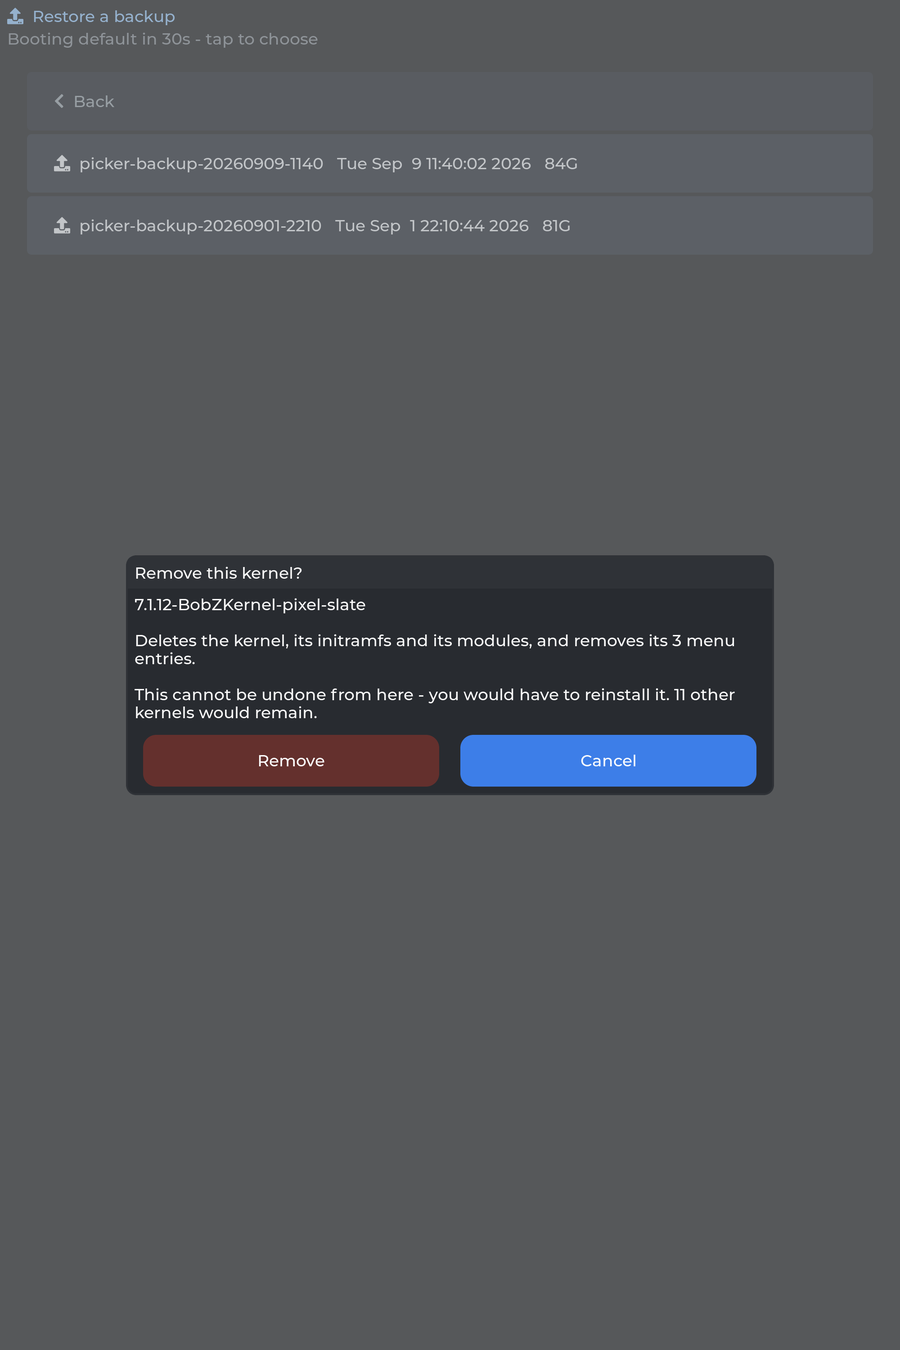
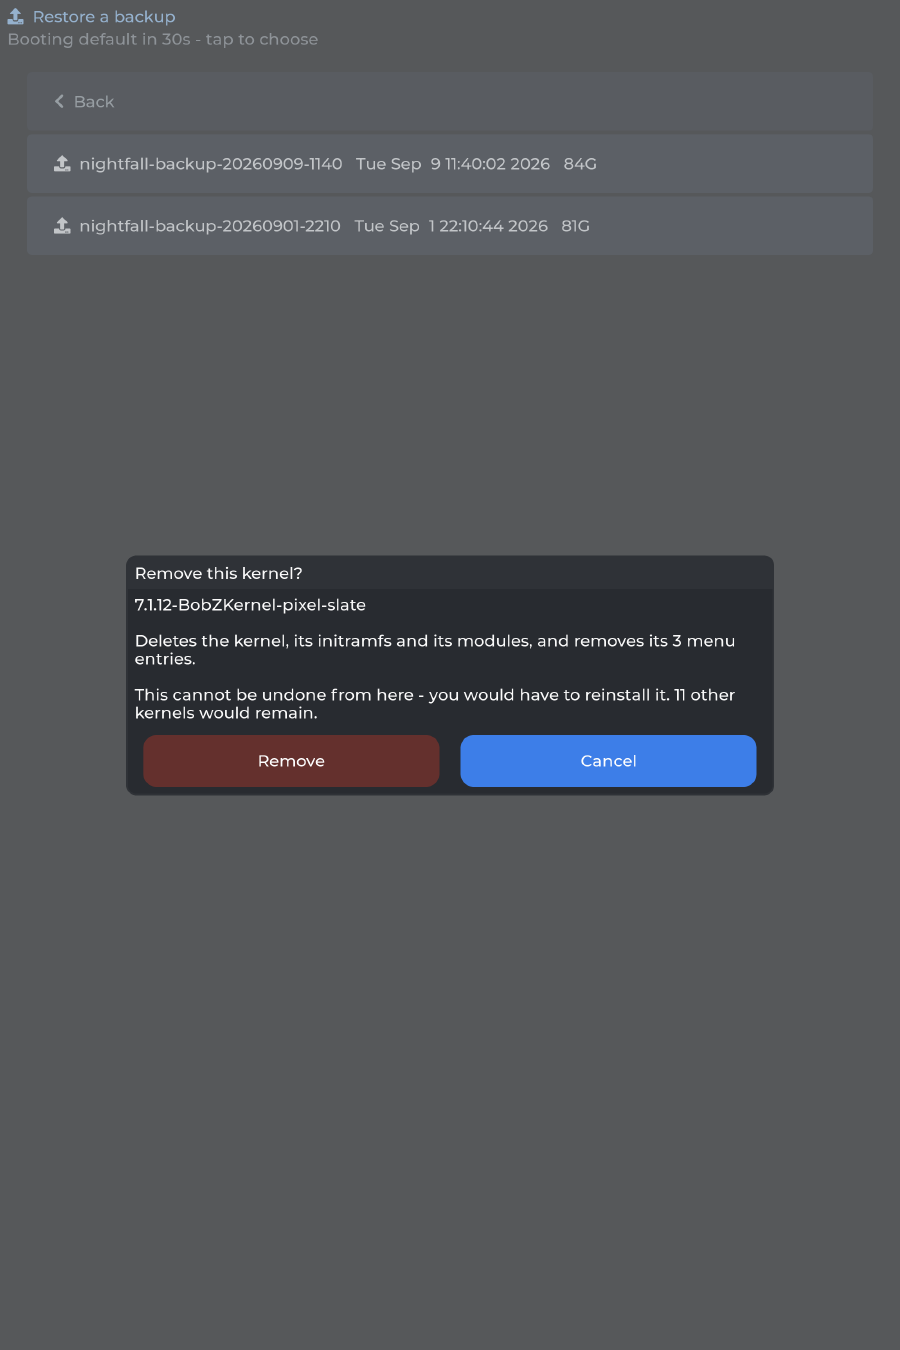
docs: re-render the screenshots so they show the name the UI shows
The README opens with a strip of screenshots, and every one of them still
had "Boot picker" across the top. A screenshot is a claim about what the
program does, so leaving them was leaving the docs saying something
untrue about the first thing a reader sees.

Regenerated all 11 from render-screens against the Slate's real grub.cfg
- same tool, same fixture, same 900x1350 as the originals.

The two on-hardware .jpg files are NOT regenerated. They are photographs
of the device the night the boot chain first worked, and a photo is
evidence rather than an illustration - editing one to say a newer name
would be inventing a picture of something that never happened. The
caption now says plainly that they predate the rename and that the
renders above are the current UI.

Pre-existing quirk, left alone because it is not mine to quietly change
here: 08-backup-progress.png and 09-install-progress.png are byte-for-byte
identical, and were before this commit too - render-screens captures the
same progress state twice under two names.

diff --git a/README.md b/README.md
@@ -122,10 +122,12 @@ And the same thing on the actual hardware, unretouched:
 <img src="docs/screenshots/on-hardware-confirm.jpg" width="31%"> <img src="docs/screenshots/on-hardware-edit.jpg" width="31%">
 
 *Phone photos from the night the whole boot chain first worked end to end.
-These predate the menu restructure and the button-spacing fix, so the flat
-kernel list and edge-to-edge buttons are how it looked then.*
+These predate the menu restructure, the button-spacing fix and the rename, so
+the flat kernel list, the edge-to-edge buttons and the old "Boot picker"
+heading are all how it looked then. They are photographs, so they stay as
+shot - the renders above are the current UI.*
 
-`picker` can also capture itself on the device
+`nightfall` can also capture itself on the device
 (`NIGHTFALL_SCREENSHOT_DIR=/path ./nightfall menu.tsv`), correctly un-rotated
 regardless of panel orientation — see [`ui/README.md`](ui/README.md#screenshots).
 
